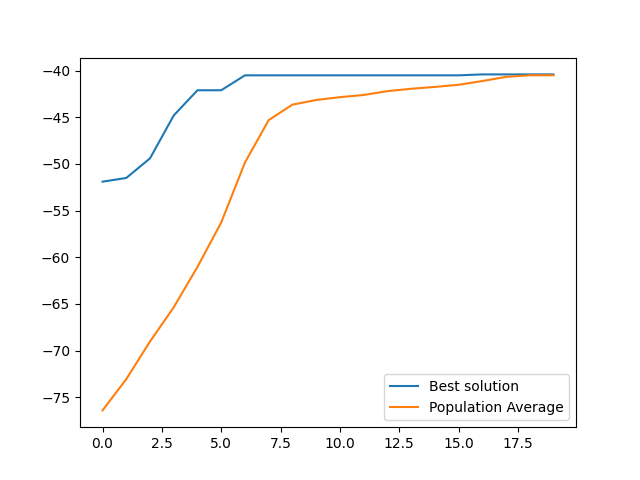
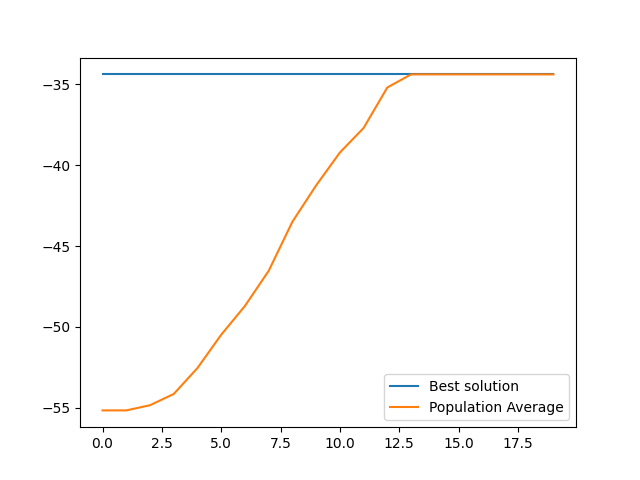
Several changes

diff --git a/src/networks/vae_v2.py b/src/networks/vae_v2.py
@@ -7,20 +7,21 @@ import torch.nn.functional as F
 import numpy as np
 from matplotlib import pyplot as plt
 
-class VAE(nn.Module):
+class VAE_V2(nn.Module):
     def __init__(self, params):
-        super(VAE, self).__init__()
-        self.name = "VAE"
+        super(VAE_V2, self).__init__()
+        self.name = "VAE_V2"
         self.instance= params["instance"]
         self.latent_dims = params["latent_dims"]
         self.c = params["capacity"]
         self.input_size = params["input_size"]
         self.distribution_std = params["distribution_std"]
-        kernel_size = 4
+        kernel_size = 2
         stride = 2
         padding = 1
         self.dim_1 = int((self.input_size - kernel_size + 2*padding)/2 + 1)
         self.dim_2 = int((self.dim_1 - kernel_size + 2*padding)/2 + 1)
+        self.dim_3 = int((self.dim_2 - kernel_size + 2*padding)/2 + 1)
         sigmoid = params["sigmoid"]
         self.is_sigmoid = sigmoid
         self.lr1 = params["lr1"]
@@ -29,21 +30,27 @@ class VAE(nn.Module):
         # By default set to training
         self.training =  True
         # Encoder layers:
-        self.conv1 = nn.Conv2d(in_channels=1, out_channels=self.c, kernel_size=kernel_size, stride=stride, padding=padding) # (64, 10, 10)
-        self.conv2 = nn.Conv2d(in_channels=self.c, out_channels=self.c*2, kernel_size=kernel_size, stride=stride, padding=padding) # (128, 5, 5)
-        self.fc_mu = nn.Linear(in_features=self.latent_dims*(self.dim_2**2), out_features = self.latent_dims)
-        self.fc_logvar = nn.Linear(in_features=self.latent_dims*(self.dim_2**2), out_features = self.latent_dims)
-        self.bn1 = nn.BatchNorm2d(self.c)
+        self.conv1 = nn.Conv2d(in_channels=1, out_channels=int(self.c/2), kernel_size=kernel_size, stride=stride, padding=padding)
+        self.conv2 = nn.Conv2d(in_channels=int(self.c/2), out_channels=self.c, kernel_size=kernel_size, stride=stride, padding=padding) # (64, 10, 10)
+        self.conv3 = nn.Conv2d(in_channels=self.c, out_channels=self.c*2, kernel_size=kernel_size, stride=stride, padding=padding) # (128, 5, 5)
+        self.fc_mu = nn.Linear(in_features=self.latent_dims*(self.dim_3**2), out_features = self.latent_dims)
+        self.fc_logvar = nn.Linear(in_features=self.latent_dims*(self.dim_3**2), out_features = self.latent_dims)
+        self.bn1 = nn.BatchNorm2d(int(self.c/2))
         self.drop1 = nn.Dropout()
-        self.bn2 = nn.BatchNorm2d(self.c*2)
+        self.bn2 = nn.BatchNorm2d(self.c)
         self.drop2 = nn.Dropout()
+        self.bn3 = nn.BatchNorm2d(self.c*2)
+        self.drop3 = nn.Dropout()
         # Decoder layers:
-        self.fc = nn.Linear(in_features=self.latent_dims, out_features=self.latent_dims*(self.dim_2**2))
+        self.fc = nn.Linear(in_features=self.latent_dims, out_features=self.latent_dims*(self.dim_3**2))
         self.conv1_ = nn.ConvTranspose2d(in_channels=self.c*2, out_channels=self.c, kernel_size=kernel_size, stride=stride, padding=padding)
-        self.conv2_ = nn.ConvTranspose2d(in_channels=self.c, out_channels=1, kernel_size=kernel_size, stride=stride, padding=padding)
+        self.conv2_ = nn.ConvTranspose2d(in_channels=self.c, out_channels=int(self.c/2), kernel_size=kernel_size, stride=stride, padding=padding)
+        self.conv3_ = nn.ConvTranspose2d(in_channels=int(self.c/2), out_channels=1, kernel_size=kernel_size+2, stride=stride, padding=padding)
         self.criterion = nn.BCELoss() if self.is_sigmoid else nn.MSELoss()
         self.bn1_2 = nn.BatchNorm2d(self.c)
         self.drop1_2 = nn.Dropout()
+        self.bn2_2 = nn.BatchNorm2d(int(self.c/2))
+        self.drop2_2 = nn.Dropout()
         # Inicialización de parámetros:
         nn.init.kaiming_uniform_(self.conv1.weight, mode='fan_in', nonlinearity='relu')
         nn.init.kaiming_uniform_(self.conv2.weight, mode='fan_in', nonlinearity='relu')
@@ -71,21 +78,37 @@ class VAE(nn.Module):
         self.last_logvar = None
         
     def encode(self, x):
+        print(x.shape)
         x = self.bn1(self.conv1(x))
         x = self.drop1(F.relu(x))
+        print(x.shape)
         x = self.bn2(self.conv2(x))
+        print(x.shape)
         x = self.drop2(F.relu(x))
+        print(x.shape)
+        x = self.bn3(self.conv3(x))
+        print(x.shape)
+        x = self.drop3(F.relu(x))
+        print(x.shape)
         x = x.view(x.size(0), -1) # flatten batch of multi-channel feature maps to a batch of feature vectors
+        print(x.shape)
         x_mu = self.fc_mu(x)
         x_logvar = self.fc_logvar(x)
         return x_mu, x_logvar
 
     def decode(self, x):
         x = self.fc(x)
-        x = x.view(x.size(0), self.c*2, self.dim_2, self.dim_2) # unflatten batch of feature vectors to a batch of multi-channel feature maps
+        print(x.shape)
+        x = x.view(x.size(0), self.c*2, self.dim_3, self.dim_3) # unflatten batch of feature vectors to a batch of multi-channel feature maps
+        print(x.shape)
         x = self.bn1_2(self.conv1_(x))
         x = self.drop1_2(F.relu(x))
-        x = torch.sigmoid(self.conv2_(x)) if self.is_sigmoid else F.relu(self.conv2_(x)) # last layer before output is sigmoid, since we are using BCE as reconstruction loss
+        print(x.shape)
+        x = self.bn2_2(self.conv2_(x))
+        x = self.drop2_2(F.relu(x))
+        print(x.shape)
+        x = torch.sigmoid(self.conv3_(x)) if self.is_sigmoid else F.relu(self.conv3_(x)) # last layer before output is sigmoid, since we are using BCE as reconstruction loss
+        print(x.shape)
         return x
     
     def forward(self, x, r):

diff --git a/src/algorithms/GA/abstract_ga.py b/src/algorithms/GA/abstract_ga.py
@@ -6,6 +6,9 @@ sys.path.append("../../")
 from networks.vae import VAE
 import torch
 import pickle
+import numpy as np
+
+
 class Abstract_Genetic_Algorithm:
     """
     Super class of all genetic algorithms to be implemented.
@@ -26,15 +29,21 @@ class Abstract_Genetic_Algorithm:
 
     def initialize_population(self, alpha = 0.01):
         """
-        Initialized population, considering the best alpha * 100 % of solutions.
+        Initialized population, considering the best alpha * 100 % of solutions and alpha / 2 * 100 % of random 
+        solutions.
         """
+        # Getting best solutions
         self.data.sort(key=lambda x: x[1])
         self.population = self.data[len(self.data)- int(len(self.data) * alpha) - 1:len(self.data) - 1]
         self.population.reverse()
-        #self.valuations = [i[1] for i in self.population]
-        self.population = [(self.model.encode(torch.Tensor(x[0]).unsqueeze(0).unsqueeze(0))) for x in self.population]
-        self.valuations = [self.calc_fitness(i, n_sims=10) for i in self.population]
-
+        self.valuations = [i[1] for i in self.population]
+        self.population = [self.transform(x) for x in self.population]
+        # Adding random solutions
+        rest = [i for i in range(0, len(self.data) - int(len(self.data) * alpha) - 1)]
+        sample = np.random.choice(rest, int(len(self.data) * (alpha / 2)), replace=False)
+        for i in sample:
+            self.population.append(self.transform(self.data[i]))
+            self.valuations.append(self.data[i][1])
 
     def selection(self, population):
         pass
@@ -60,6 +69,9 @@ class Abstract_Genetic_Algorithm:
                 if cell == 1:
                     reward-= 1
         return reward/n_sims
+    
+    def transform(self, x):
+        pass
     
     def fitness_func(self):
         pass

diff --git a/src/algorithms/GA/vainilla_ga.py b/src/algorithms/GA/vainilla_ga.py
@@ -24,16 +24,6 @@ class Vainilla_GA(Abstract_Genetic_Algorithm):
         self.sim_meassure = LA.norm
         self.name = "VANILLA_GA"
 
-    def initialize_population(self, alpha = 0.01):
-        """
-        Initialized population, considering the best alpha * 100 % of solutions.
-        """
-        self.data.sort(key=lambda x: x[1])
-        self.population = self.data[len(self.data)- int(len(self.data) * alpha) - 1:len(self.data) - 1]
-        self.population.reverse()
-        #self.valuations = [i[1] for i in self.population]
-        self.population = [x[0] for x in self.population]
-        self.valuations = [self.calc_fitness(i, n_sims=10) for i in self.population]
 
     def calc_fitness(self, solution, n_sims = 10):
         """
@@ -143,11 +133,14 @@ class Vainilla_GA(Abstract_Genetic_Algorithm):
         Applies indiv_cross_over to population
         """
         temp = self.population.copy()
-        while(temp):
+        while(len(temp) > 1):
             parent_1 = temp.pop(random.randrange(len(temp)))
             parent_2 = temp.pop(random.randrange(len(temp)))
             offspring = self.indiv_cross_over(parent_1, parent_2)
             self.population.append(offspring)
+
+    def transform(self, x):
+        return x[0]
                 
 
     def stop_criteria(self):
@@ -188,3 +181,4 @@ class Vainilla_GA(Abstract_Genetic_Algorithm):
         plt.plot(x, avg, label="Population Average")
         plt.legend()
         plt.savefig(f'results/plot_{self.name}_{n_iter}.png')
+        plt.close()

diff --git a/src/algorithms/GA/variational_GA.py b/src/algorithms/GA/variational_GA.py
@@ -103,11 +103,14 @@ class Variational_GA_V1(Abstract_Genetic_Algorithm):
         Applies indiv_cross_over to population
         """
         temp = self.population.copy()
-        while(temp):
+        while(len(temp) > 1):
             parent_1 = temp.pop(random.randrange(len(temp)))
             parent_2 = temp.pop(random.randrange(len(temp)))
             offspring = self.indiv_cross_over(parent_1, parent_2)
             self.population.append(offspring)
+        
+    def transform(self, x):
+        return self.model.encode(torch.Tensor(x[0]).unsqueeze(0).unsqueeze(0))
                 
     def retrieve_sigma(self, embedding):
         """
@@ -153,3 +156,4 @@ class Variational_GA_V1(Abstract_Genetic_Algorithm):
         plt.plot(x, avg, label="Population Average")
         plt.legend()
         plt.savefig(f'results/plot_{self.name}_{n_iter}.png')
+        plt.close()

diff --git a/src/algorithms/GA/variational_GA_v2.py b/src/algorithms/GA/variational_GA_v2.py
@@ -103,11 +103,14 @@ class Variational_GA_V2(Abstract_Genetic_Algorithm):
         Applies indiv_cross_over to population
         """
         temp = self.population.copy()
-        while(temp):
+        while(len(temp) > 1):
             parent_1 = temp.pop(random.randrange(len(temp)))
             parent_2 = temp.pop(random.randrange(len(temp)))
             offspring = self.indiv_cross_over(parent_1, parent_2)
             self.population.append(offspring)
+    
+    def transform(self, x):
+        return self.model.encode(torch.Tensor(x[0]).unsqueeze(0).unsqueeze(0))
                 
     def retrieve_sigma(self, embedding):
         """
@@ -153,3 +156,4 @@ class Variational_GA_V2(Abstract_Genetic_Algorithm):
         plt.plot(x, avg, label="Population Average")
         plt.legend()
         plt.savefig(f'results/plot_{self.name}_{n_iter}.png')
+        plt.close()

diff --git a/src/algorithms/GA/test.py b/src/algorithms/GA/test.py
@@ -15,7 +15,7 @@ sigmoid = True
 instance = "homo_2"
 lr1 = 1e-5
 not_reduced = False
-variational_beta = 0.1
+variational_beta = 0.01
 distribution_std = 1.
 params = {
     "input_size": input_size,
@@ -34,5 +34,13 @@ print(net.training)
 net.load_state_dict(torch.load(f'../../weights/homo_2/VAE/sub20x20_latent={latent_dims}_capacity={capacity}_{epochs}_sigmoid={sigmoid}_T1=100_T2=100_lr1={lr1}_lr2=0.0001_lr3=0.0001_normalize=False_weight_decay=0_not_reduced={not_reduced}_variational_beta={variational_beta}_distribution_std={distribution_std}.pth', map_location=torch.device('cpu') ))
 a = Vainilla_GA(net)
 a.initialize_population(alpha=0.01)
-a.train(n_iter=20)
+a.train(n_iter=100)
+
+a = Variational_GA_V1(net)
+a.initialize_population(alpha=0.01)
+a.train(n_iter=100)
+
+a = Variational_GA_V2(net)
+a.initialize_population(alpha=0.01)
+a.train(n_iter=100)
 

diff --git a/src/train_ae.py b/src/train_ae.py
@@ -13,6 +13,7 @@ sys.path.append("..")
 from networks.autoencoder import FireAutoencoder
 from networks.autoencoder_reward import FireAutoencoder_reward
 from networks.vae import VAE
+from networks.vae_v2 import VAE_V2
 from networks.utils import EarlyStopper
 import argparse
 from tqdm import tqdm
@@ -41,7 +42,7 @@ args = parser.parse_args()
 # Params
 params = {}
 latent_dims = args.latent_dim
-capacity = 1
+capacity = args.latent_dim//2
 use_gpu =  True
 input_size = 20
 epochs = args.epochs
@@ -92,6 +93,7 @@ nets = {
     "AE": FireAutoencoder,
     "AE_Reward": FireAutoencoder_reward,
     "VAE": VAE,
+    "VAE_V2": VAE_V2,
 }
 net = nets[network](params = params)
 # Data loader is built
